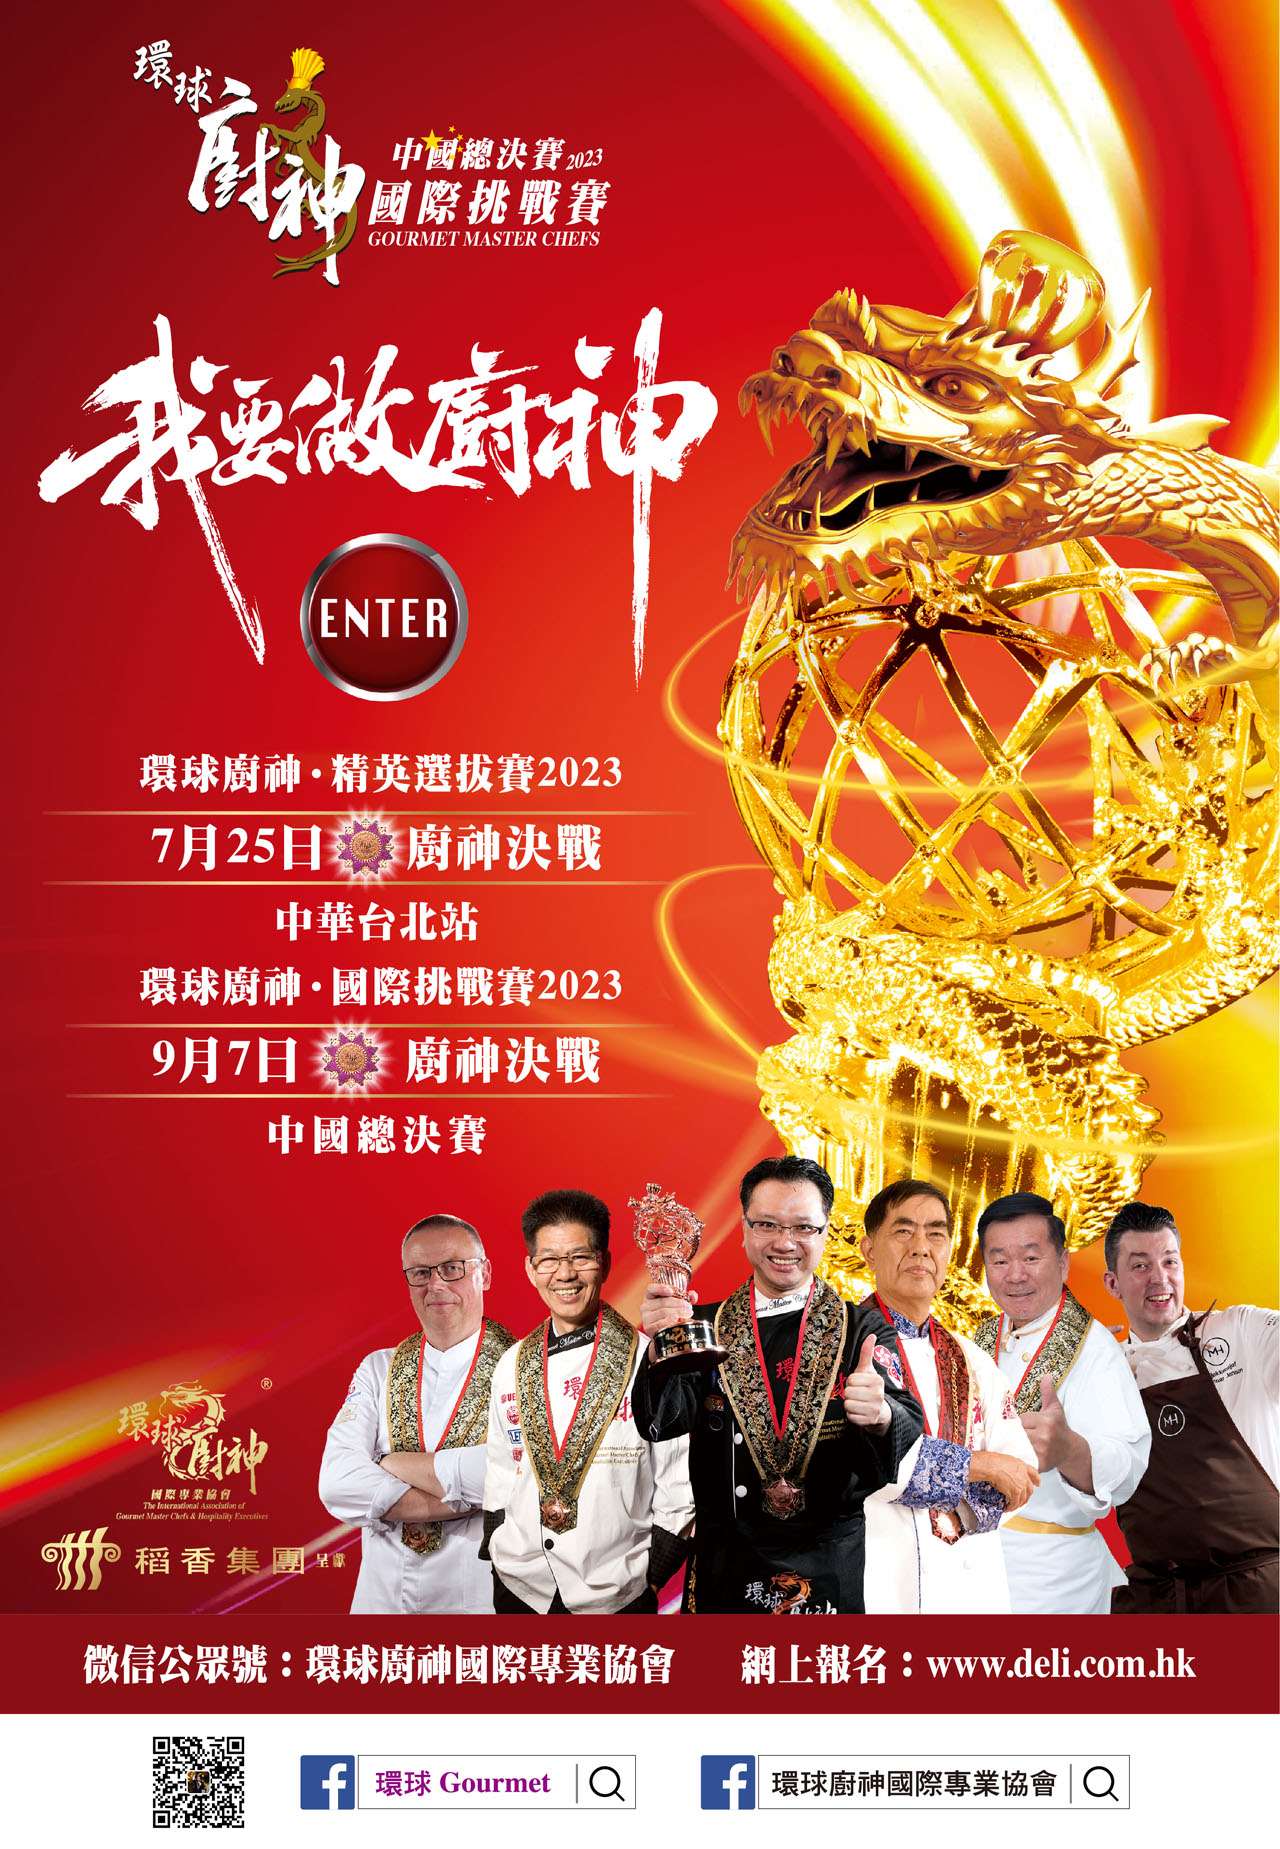
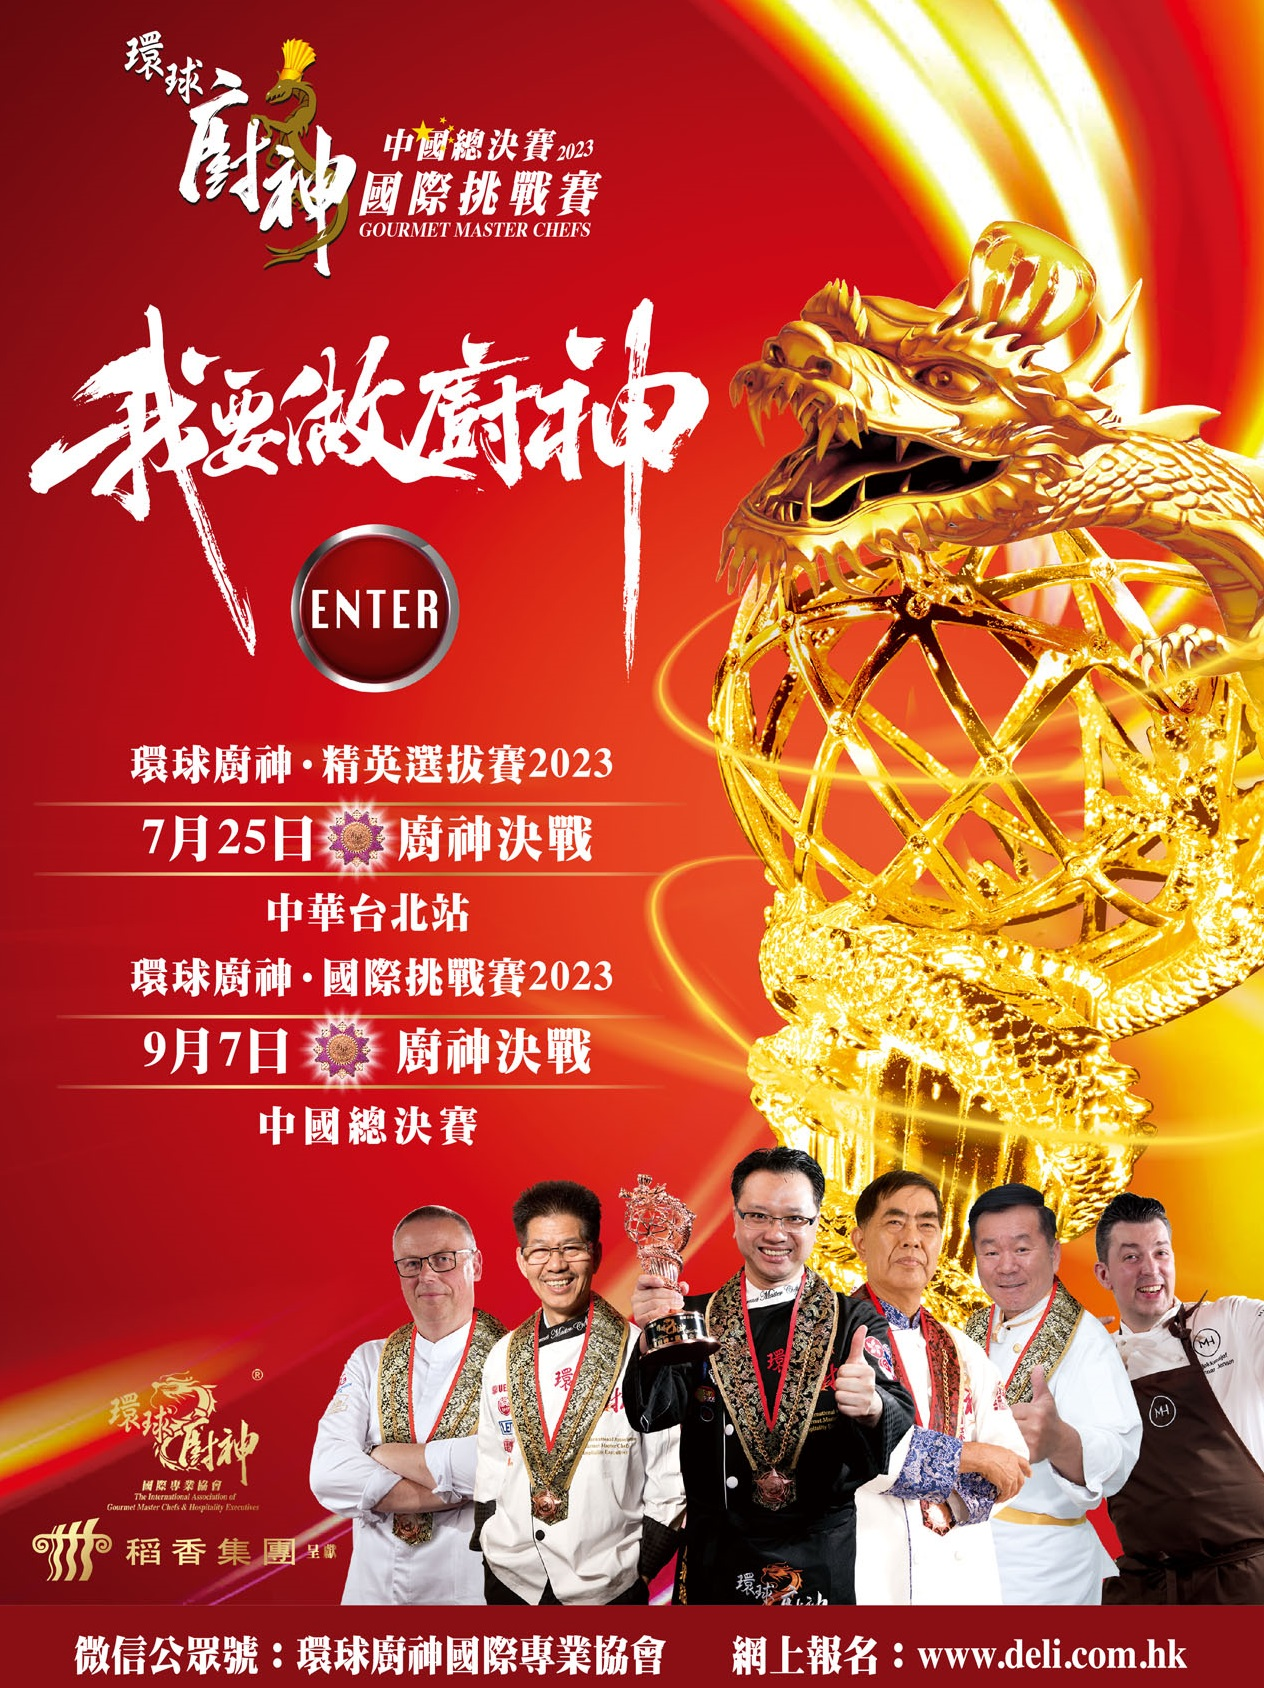
commit

diff --git a/deli/index.html b/deli/index.html
@@ -29,7 +29,10 @@
         <div class="wrapper">
             <a href="2023/home.html" title="按此進入 Click to enter" alt="按此進入 Click to enter">
                 <img src="2023/images/Landing-page-banner-desktop.jpg" alt="" class="main-bg-img">
-                <img src="2023/images/Landing-page-banner-mobile.jpg" alt="" class="main-bg-img-sm">
+                <div class=" min-height-100">
+                    <img src="2023/images/Landing-page-banner-mobile.jpg" alt="" class="main-bg-img-sm">
+                    <img src="2023/images/Landing-page-banner-mobile - Copy.jpg" alt="" class="main-bg-img-sm">
+                </div>
             </a>
             <!-- <div class="logo-links" >
                         <ul class="clearfix">

diff --git a/deli/css/custom-style.css b/deli/css/custom-style.css
@@ -91,10 +91,16 @@ body {
 
     .main-bg-img-sm {
         display: block;
-        min-height: 100vh;
+        /* min-height: 100vh; */
+        object-fit: contain;
     }
-
+.min-height-100{
+    min-height: 100vh;
+    display: flex;
+    justify-content: space-between;
+    flex-direction: column;
+}
     body {
-        background-color: #6F0809;
+        background-color: #8A0F14;
     }
 }
